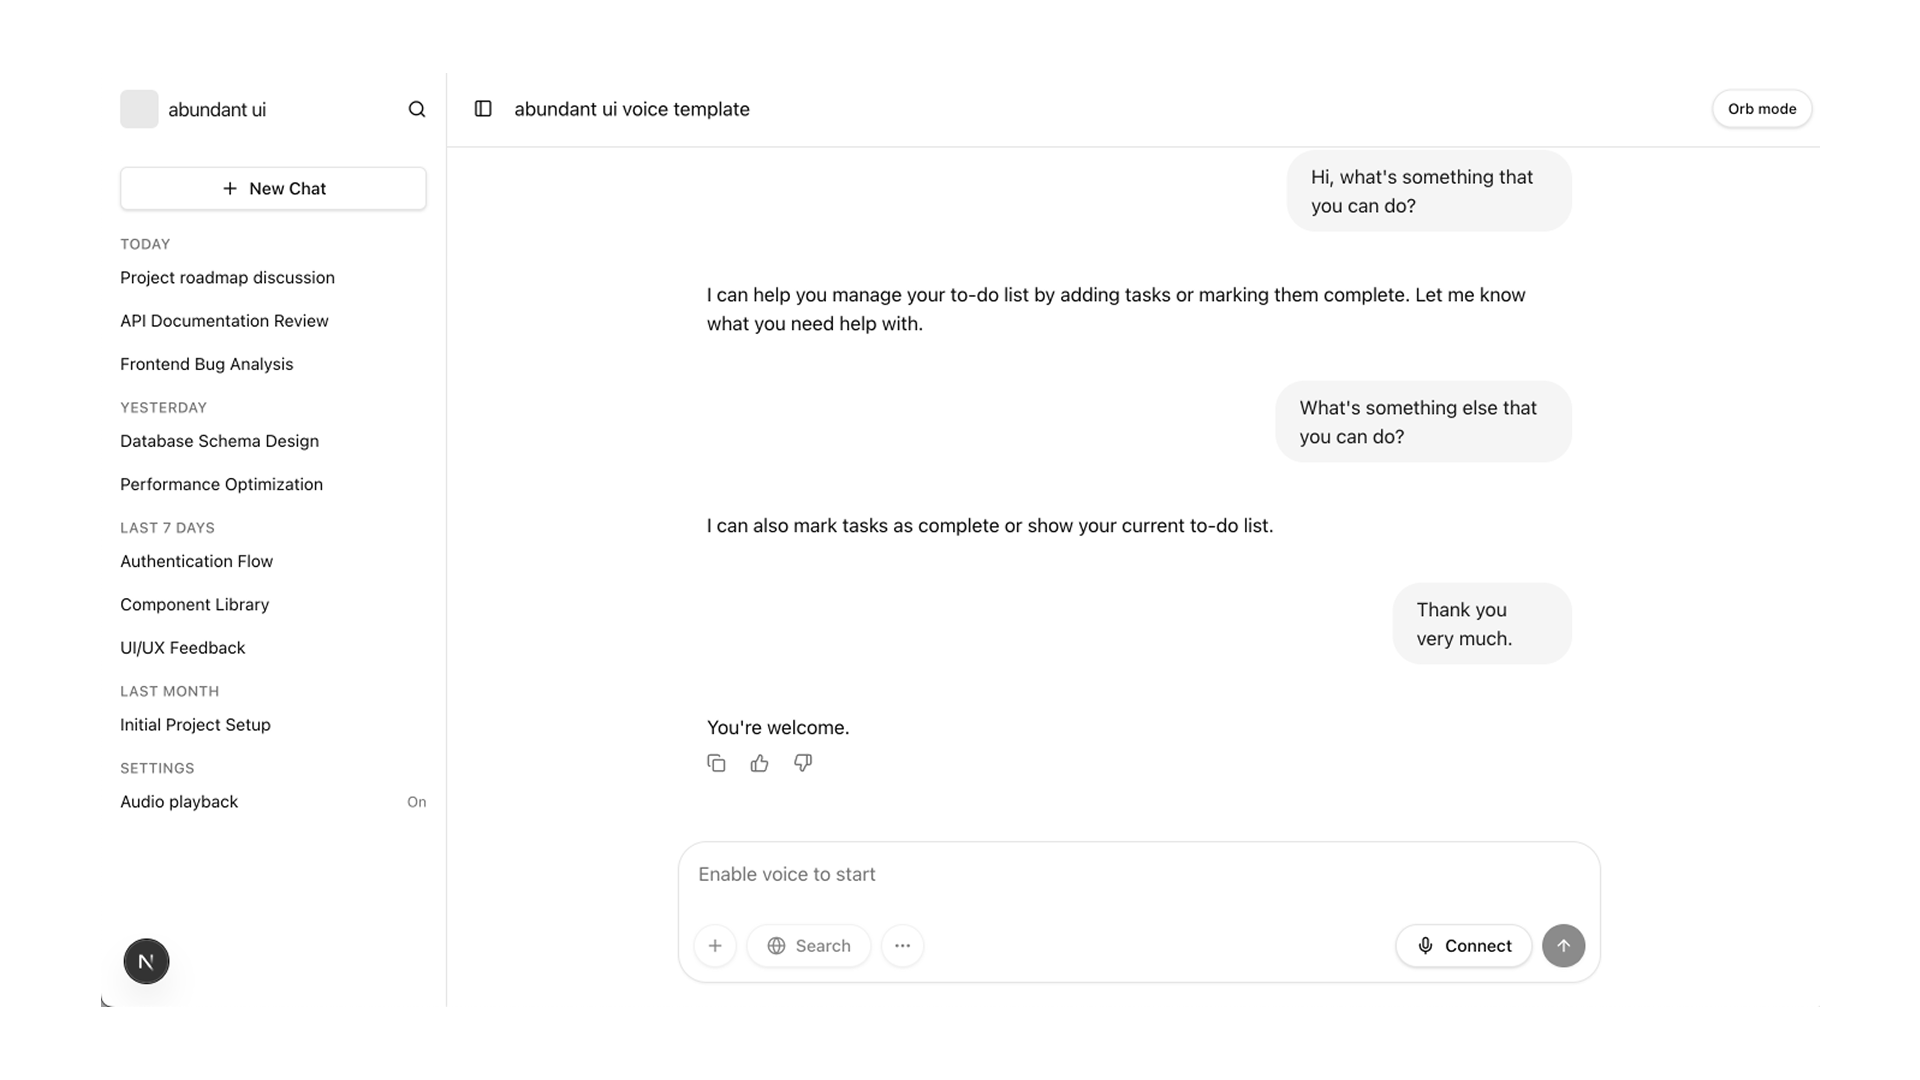
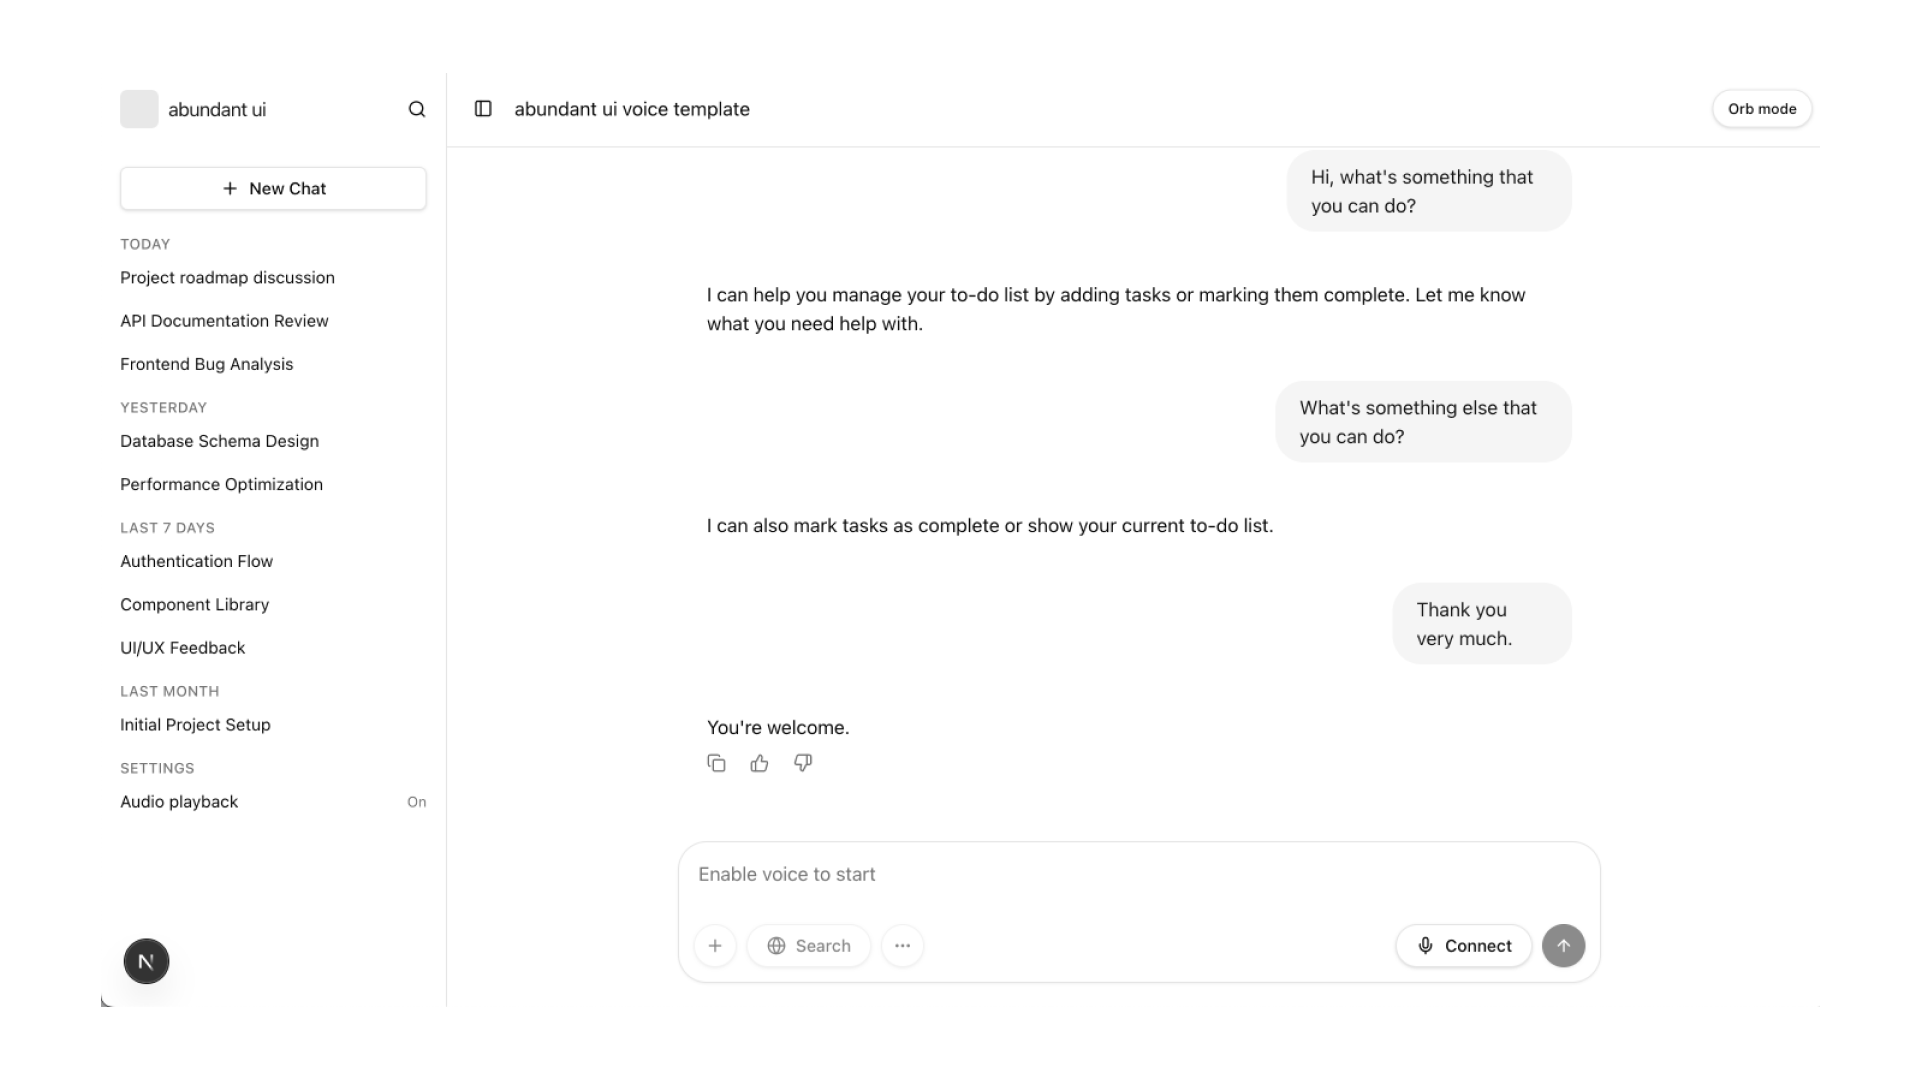
crop images

Changed region(s): [[0.4375, 0.275, 0.4688, 0.3056], [0.375, 0.275, 0.4062, 0.3056], [0.3438, 0.0917, 0.375, 0.1222]]

diff --git a/README.md b/README.md
@@ -5,7 +5,7 @@
 </p>
 
 <p align="center">
-  <img src="./public/orb-chat-demo.png" alt="Orb and Chat UI" width="800" style="border-radius: 32px; border: 1px solid #e1e4e8;" />
+  <img src="./public/orb-chat-demo.png" alt="Orb and Chat UI" width="800"  />
 </p>
 
 ## Overview
@@ -20,7 +20,7 @@ The **Abundant UI Voice Agent Template** is designed for developers who want to 
 - **Integrated Tooling:** Comes out of the box with a Todo List example demonstrating how the agent can interact with local application state.
 
 <p align="center">
-  <img src="./public/orb.png" alt="AI Orb Shader" width="800" style="border-radius: 32px; border: 1px solid #e1e4e8;" />
+  <img src="./public/orb.png" alt="AI Orb Shader" width="800"  />
 </p>
 
 ## Visual Experience
@@ -28,7 +28,7 @@ The **Abundant UI Voice Agent Template** is designed for developers who want to 
 The template includes a high-fidelity transcript view that allows users to follow the conversation in real-time, even while using voice mode.
 
 <p align="center">
-  <img src="./public/chat-transcript-demo.png" alt="Chat Transcript" width="800" style="border-radius: 32px; border: 1px solid #e1e4e8;" />
+  <img src="./public/chat-transcript-demo.png" alt="Chat Transcript" width="800"  />
 </p>
 
 ## Architecture
